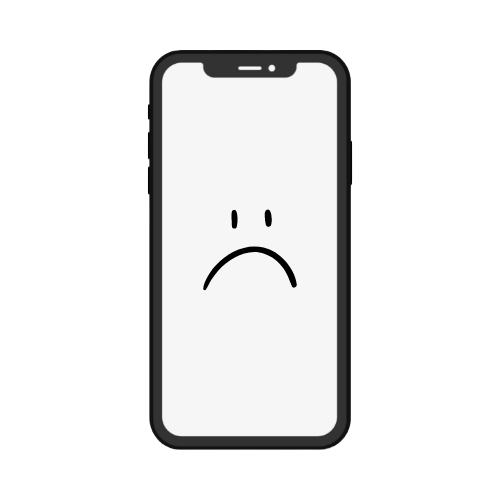
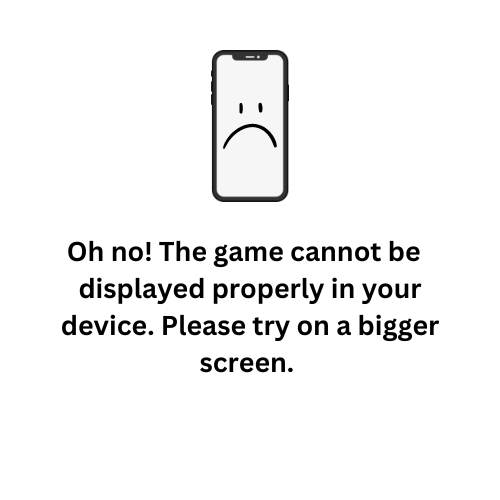
media query to change grid size & control display

Changed region(s): [[0.12, 0.09, 0.87, 0.9]]

diff --git a/src/App.js b/src/App.js
@@ -7,9 +7,7 @@ import GameBoard from './components/GameBoard';
 import Header from './components/Header'
 import About from './components/About';
 import Contact from './components/Contact';
-import background from "./images/forest_bg.png";
-import rotate from "./images/rotate.png"
-import sadscreen from "./images/sadscreen.png"
+
 function App() {
   // console.log("in app")
   const size = useWindowSize();
@@ -17,35 +15,22 @@ function App() {
   const [level, setLevel] = useState(getLevel());  
   const [about, setAbout]=useState(true) 
 
-  // Display width is too narrow
-  if(size.height>size.width && size.width<375){
-    return(
-      <div className="App" >
-        <img src={sadscreen} width="300" alt="sadscreen" ></img>
-        <p>Oh no! We can't fit everything on your screen. </p>
-      </div>
-    )
-  }
-  // Display height is too short
-  if(size.width>size.height && size.height<450){
-    return(
-      <div className="App" >
-        <img src={rotate} width="300" alt="rotate" ></img>
-        <p>Oh no! We can't fit everything on your screen. Please rotate your device.</p>
-      </div>
-    )
-  }
-
+  
   return (
-    <div className="App" style={{ backgroundImage: `url(${background})`, backgroundSize: 'cover',}}>
+
+    <div className="App">
+
       {about && <About show={about} setShow={setAbout} diaglog={ size.width>900 ? "modal-50w" : "modal-90w" } />}
-      <header className="App-header">
+      
+      {/* <header className="App-header"> */}
          
-          <Header setAbout={setAbout} />
-          <GameBoard width={(size.width>700 && size.height>800)? 600 : 350} level={level} setLevel={setLevel} />
+         <Header setAbout={setAbout} />
+          <br/><br/>
+          <GameBoard level={level} setLevel={setLevel} />
           <Contact />
-      </header>
+      {/* </header> */}
     </div>
+    
   );
 }
 

diff --git a/src/components/GameBoard.js b/src/components/GameBoard.js
@@ -1,7 +1,4 @@
 import { useEffect, useState, memo } from "react"
-import Container from 'react-bootstrap/Container';
-import Row from 'react-bootstrap/Row';
-import Col from 'react-bootstrap/Col';
 import Button from 'react-bootstrap/Button';
 
 
@@ -46,7 +43,6 @@ const GameBoard = ({width, level, setLevel }) => {
     useEffect(()=>{ 
         // console.log("check win effect")
         if(game!==null && tokenCount[0]===9 && checkBoard(gameboard, game.header)){
-            console.log(lastGame)
             setShowModal(true)
             setLastGame(game.id===count)
             setLevel(game.id===count ? 1 : game.id+1)
@@ -66,11 +62,8 @@ const GameBoard = ({width, level, setLevel }) => {
     return (
         <>
         {showModal && <WinModal show={showModal} setShow={setShowModal} msg={lastGame ? "Back to game 1" :  "Next level"} setLastGame={setLastGame} /> }
-        <Container>
-            <Row>
-                <Col lg="1"></Col>
-                <Col>
-                    <table width={width} height={width} className="gameboard" border="1px">
+                    {/* <table width={width} height={width} className="gameboard" border="1px"> */}
+                    <table className="gameboard">
                         <tbody>
                         <tr height='25%' border="1">
                             <td width='25%'>Level {game.id}<br/>
@@ -94,12 +87,7 @@ const GameBoard = ({width, level, setLevel }) => {
                     </table>
                     
                     <TokenCount tokenCount={tokenCount} width={width}  />
-                </Col>
-                <Col lg="1"></Col>
-                
-            </Row>
-            
-        </Container>
+   
         </>
        
     )

diff --git a/src/App.css b/src/App.css
@@ -1,6 +1,58 @@
 .App {
   text-align: center;
+  /* background-image: url(./images/forest_bg.png);
+  background-size: cover; */
+  /* background-repeat: no-repeat; */
+  /* background-position: center center;
+  background-attachment: fixed; */
 }
+
+.gameboard {
+  width: 350px;
+  height:350px;
+  border: 1px;
+  margin-left: auto;
+  margin-right: auto;
+}
+
+.count {
+  width: calc(350px*0.7);
+  height: calc(350px*0.7/3);
+  padding: 1px;
+  margin-left: auto;
+  margin-right: auto;    
+}
+
+@media (min-width: 650px) and (min-height: 651px){
+  .gameboard {
+    width: 600px;
+    height: 600px;
+    border: 1px
+  }
+  .count {
+    width: calc(600px*0.7);
+    height: calc(600px*0.7/3);
+    padding: 2px;
+  }
+}
+/* @media (max-height: 450px) {
+  
+  .App {
+    background-image: url(./images/rotate.png);
+    background-size: cover;
+    background-repeat: no-repeat;
+    background-position: center center;
+    
+  }
+  .App-header {
+    visibility: collapse;
+  }
+} */
+
+/* .narrow {
+  visibility:  hidden;
+} */
+
 
 .App-logo {
   height: 40vmin;
@@ -36,10 +88,9 @@
     transform: rotate(360deg);
   }
 }
-
-.gameboard {
-  margin-left: auto;
-  margin-right: auto;
+.center {
+  text-align: center;
+  padding: 30px;
 }
 .game-top-header {
   width: 75%;

diff --git a/src/index.css b/src/index.css
@@ -5,8 +5,34 @@ body {
     sans-serif;
   -webkit-font-smoothing: antialiased;
   -moz-osx-font-smoothing: grayscale;
-}
 
+  background-image: url(./images/forest_bg.png);
+  background-size: cover;
+  background-repeat: no-repeat;
+  background-position: center center;
+  background-attachment: fixed;
+
+  height: 100%; overflow: hidden
+}
+@media (max-height: 450px) {
+  body {
+    background-image: url(./images/rotate.png);  
+    background-size: 60%
+  }
+  .App {
+    visibility: collapse;
+  }
+}
+@media (max-width: 350px) {
+  body {
+    background-image: url(./images/sadscreen.png); 
+    background-size: 90%;
+    background-position: top center;
+  }
+  .App {
+    visibility: collapse;
+  }
+}
 code {
   font-family: source-code-pro, Menlo, Monaco, Consolas, 'Courier New',
     monospace;

diff --git a/src/components/TokenCount.js b/src/components/TokenCount.js
@@ -3,7 +3,8 @@ import { memo } from "react"
 const TokenCount = memo(({tokenCount, width}) => {  
     // console.log(tokenCount)
     return(
-        <table width={width*0.7} height={width*0.7/3} className="gameboard" ><tbody>
+        <table className="count"><tbody>
+         
             <tr>
                 {
                     tokenCount.map((count, idx) => (

diff --git a/src/components/Header.js b/src/components/Header.js
@@ -9,7 +9,7 @@ const Header = ({setAbout}) => {
     return (
         <>
         
-        <Navbar collapseOnSelect  expand='xs' fixed="top" >
+        <Navbar collapseOnSelect  fixed="top" >
         <Container>
 
             <Navbar.Brand className="font-face-cg" style={{color: 'green', fontSize:'30px', padding:'0px'}} >
